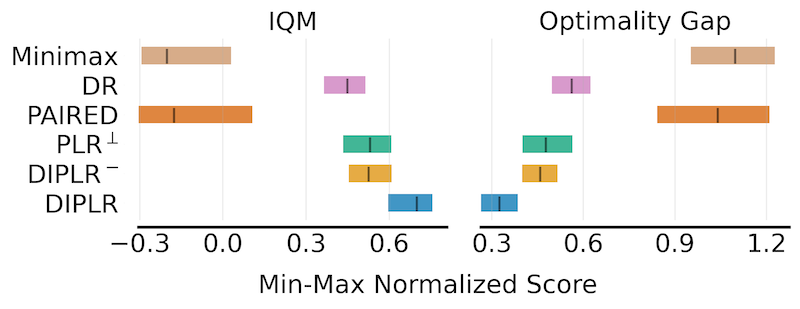
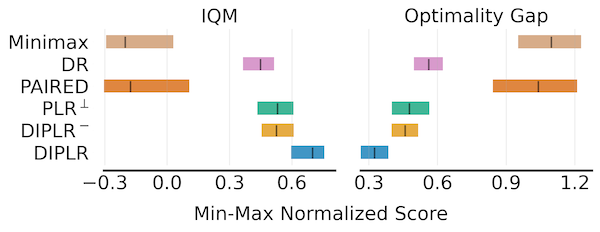
updates

diff --git a/README.md b/README.md
@@ -63,20 +63,20 @@ For each domain, we provide the students' detailed performance on a variety of t
 Minigrid is a good benchmark due to its easy interpretability and customizability. In our experimental settings, the teacher has a maximum budget of 60 block cells and can place the start position and goal position elsewhere. The student is required to navigate to the goal cell within 256 steps and it receives rewards=(num-steps/256) upon success, otherwise, it receives zero rewards. 
 
 We evaluate the students trained by UED algorithms on "out-of-distribution" (OOD) testing environments, i.e., the mazes created by humans. The below figure provides the zero-shot transfer performance in eight human-designed test environments. The plots are based on the median and interquartile range of solved rates across 10 independent experiments. <br>
-![image](figures/results_mg_small.png) <br>
+![image](figures/results_mg.png) <br>
 
 The below figure presents the aggregate zero-shot OOD test performance in Minigrid Domain across 10 independent runs. Higher IQM scores and lower optimality gap are better. <br>
-![image](figures/results_mg_iqm_small.png)
+![image](figures/results_mg_iqm.png)
 
 ### 4.2 Bipedal-Walker
 We also conduct a comprehensive comparison on the Bipedal-Walker domain and is popular in the community as it is a well-parameterized environment with eight variables (including ground roughness, the number of stair steps, min/max range of pit gap width, min/max range of stump height, and min/max range of stair height) conditioning the terrains and is thus straightforward to interpret. The teacher in Bipedal-Walker can specify the values of the eight environment parameters, but there will still be stochasticity in the generation of a particular level. As for the student, i.e., walker agent, it should determine the torques applied on its joints and is constrained by partial observability where it only knows its horizontal speed, vertical speed, angular speed, positions of joints, joints’ angular speed, etc. Six examples of test environments in Bipedal-Walker do- main. (a) BipedalWalker, (b) Hardcore, (c) Stair, (d) PitGap, (e) Stump, (f) Roughness. Note that these may not be the exact test en- vironment terrains but only extreme cases for demonstration. <br>
-![image](figures/bw_domain_small.png)
+![image](figures/bw_domain.png)
 
 Performance on test environments during the training period over five independent experiments (mean and standard error). <br>
-![image](figures/results_bw_small.png)
+![image](figures/results_bw.png)
 
 Aggregate test performance over 10 runs in Bipedal- Walker domain. Higher IQM scores and lower optimality gap are better. <br>
-![image](figures/results_bw_iqm_small.png)
+![image](figures/results_bw_iqm.png)
 
 ### 4.3 Car-Racing
 To validate that our method is scalable and versatile, we further implement DIPLR on the Car-Racing environment, which is introduced by [Jiang et al., 2021a] and has been used in existing UED papers. In this domain, the teacher needs to create challenging racing tracks by using Be ́zier curves (via 12 control points) and the student drives on the track under continuous control with dense reward. A zoom-in illustration of the track is shown in Figure 8 (a). After training the stu- dent for around 3k PPO updates (∼ 5.5M steps), we evaluate the student agent in four test scenarios, among which three challenging F1-tracks existing in the real world and the other one is a basic vanilla track. Note that these tracks are absolutely OOD because they cannot be defined with just 12 control points, for example, the F1-Singapore track in Figure 8 (c) has more than 20 control points. Examples in Car-Racing domain. (a) A zoom-in snapshot of the car-racing track; (b) a track generated by domain randomiza- tion; (c) one of the test environments, F1-Singapore track <br>
